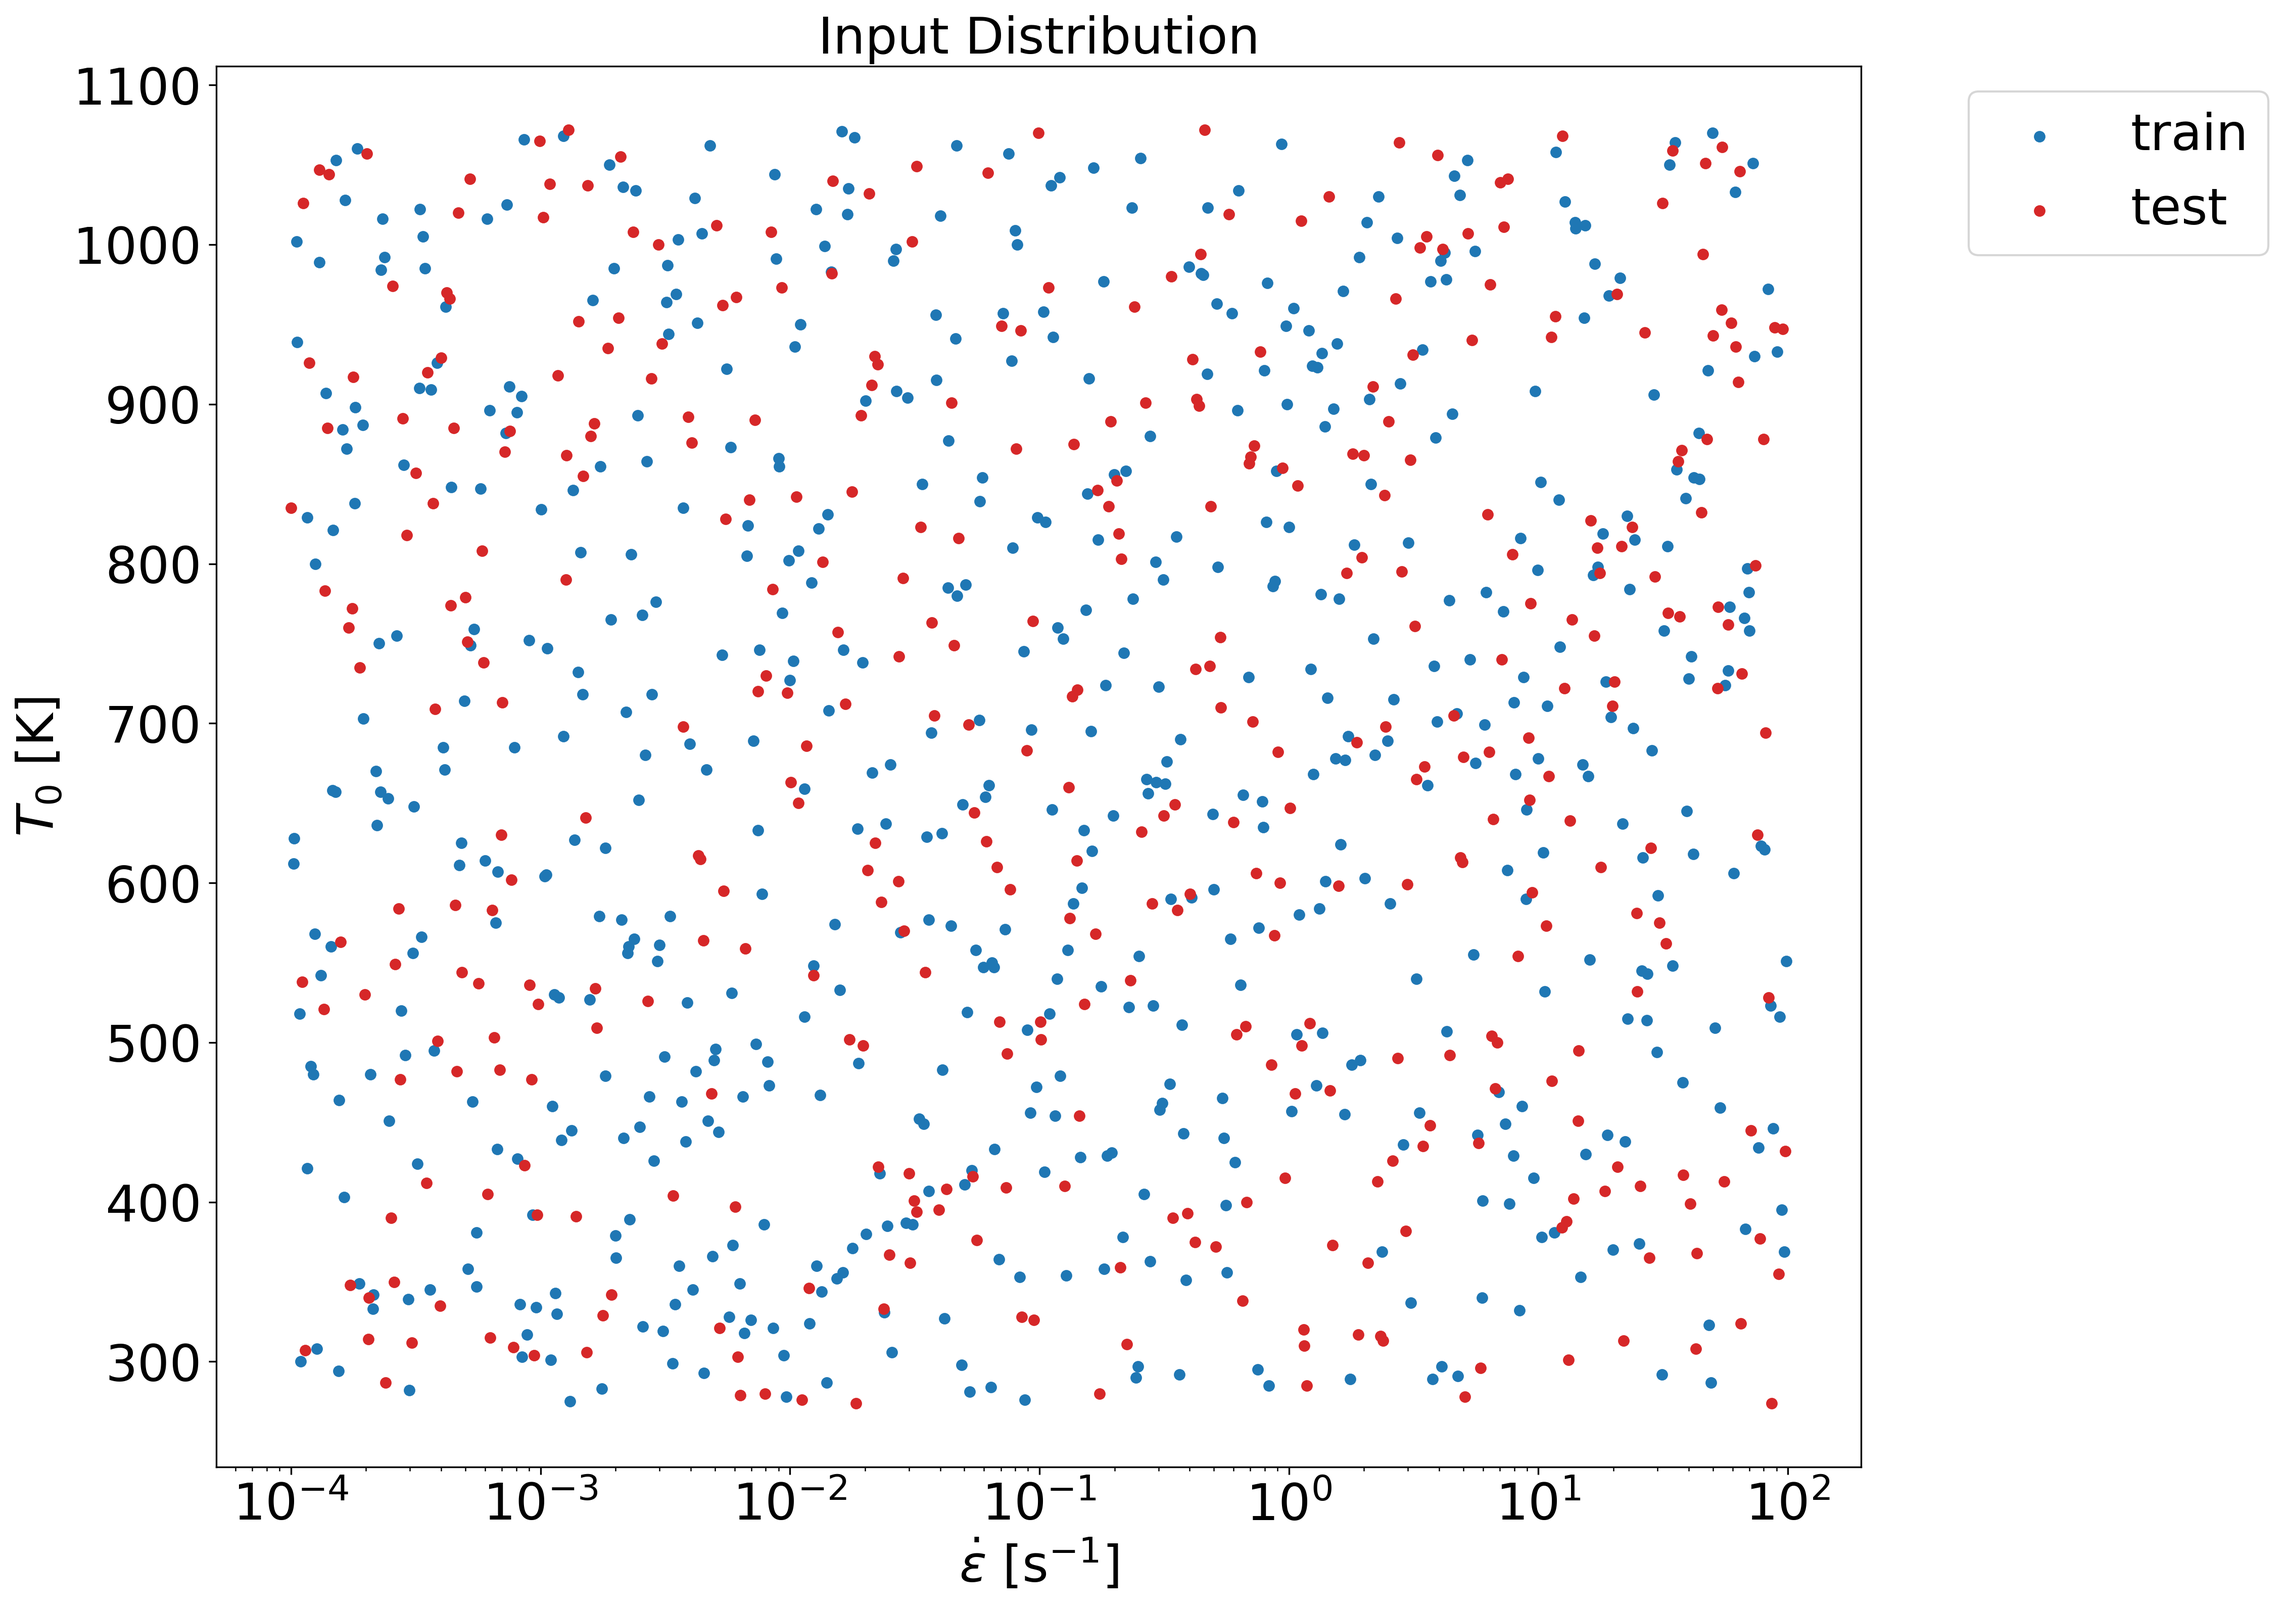
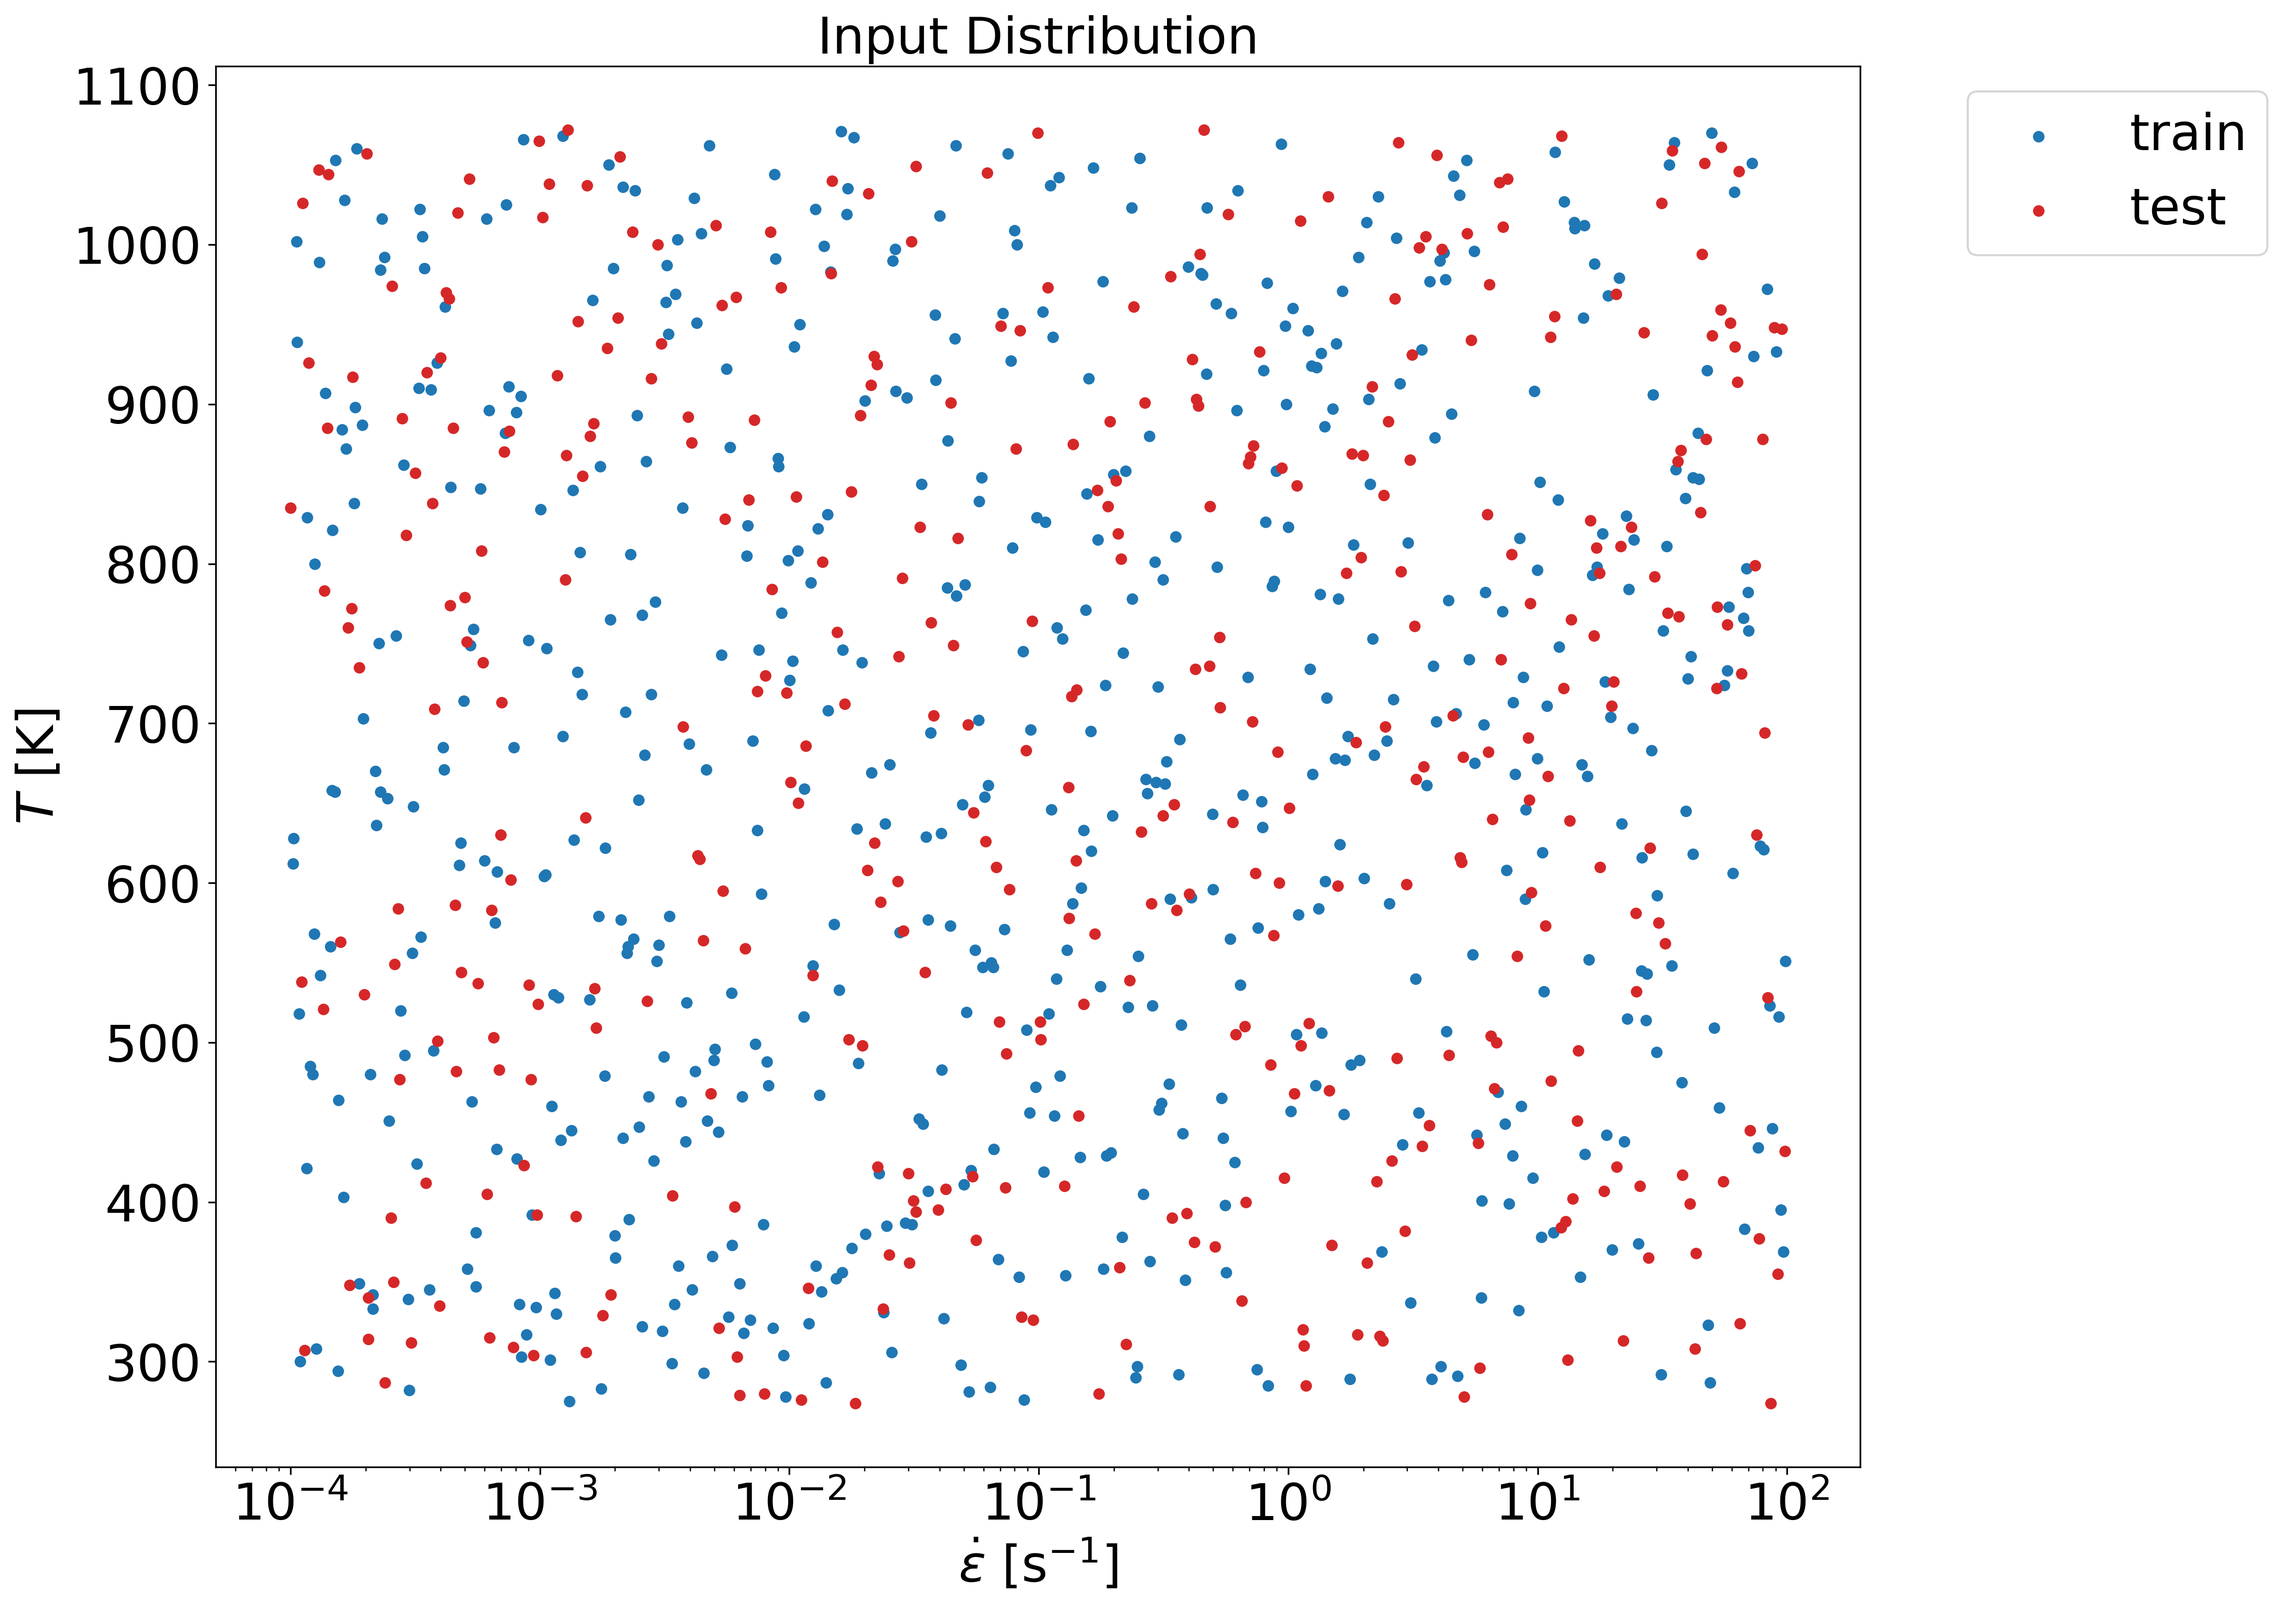
add test_ROM_oligocrystal/rom/README.md

Changed region(s): [[0.0, 0.4356, 0.0312, 0.5289]]

diff --git a/test_ROM_oligocrystal/rom/plotTrainTest.py b/test_ROM_oligocrystal/rom/plotTrainTest.py
@@ -48,7 +48,7 @@ plt.legend(fontsize=24, loc='upper left', bbox_to_anchor=(1.05, 1.0),frameon=Tru
 
 plt.title('Input Distribution', fontsize=24)
 plt.xlabel(r'$\dot{\varepsilon}$ [s$^{-1}$]', fontsize=24)
-plt.ylabel(r'$T_0$ [K]', fontsize=24)
+plt.ylabel(r'$T$ [K]', fontsize=24)
 plt.xscale('log',base=10) 
 # plt.show()
 plt.savefig('TrainTestDistribution', dpi=300, facecolor='w', edgecolor='w',

diff --git a/test_ROM_oligocrystal/rom/README.md b/test_ROM_oligocrystal/rom/README.md
@@ -1,0 +1,8 @@
+
+# Projection-based Reduced-order Model
+
+1. Construct a global basis.
+1. Compute POD coefficients.
+1. Predict POD coefficients $\widetilde{\boldsymbol{\lambda}}$ for unseen parameters $\widetilde{\mathbf{p}}$.
+1. Reconstruct state solution using the global POD basis with predicted POD coefficients. Using the previously computed mean $\overline{\mathbf{w}}$, we can reconstruct the state variable by using the predicted POD coefficients
+
